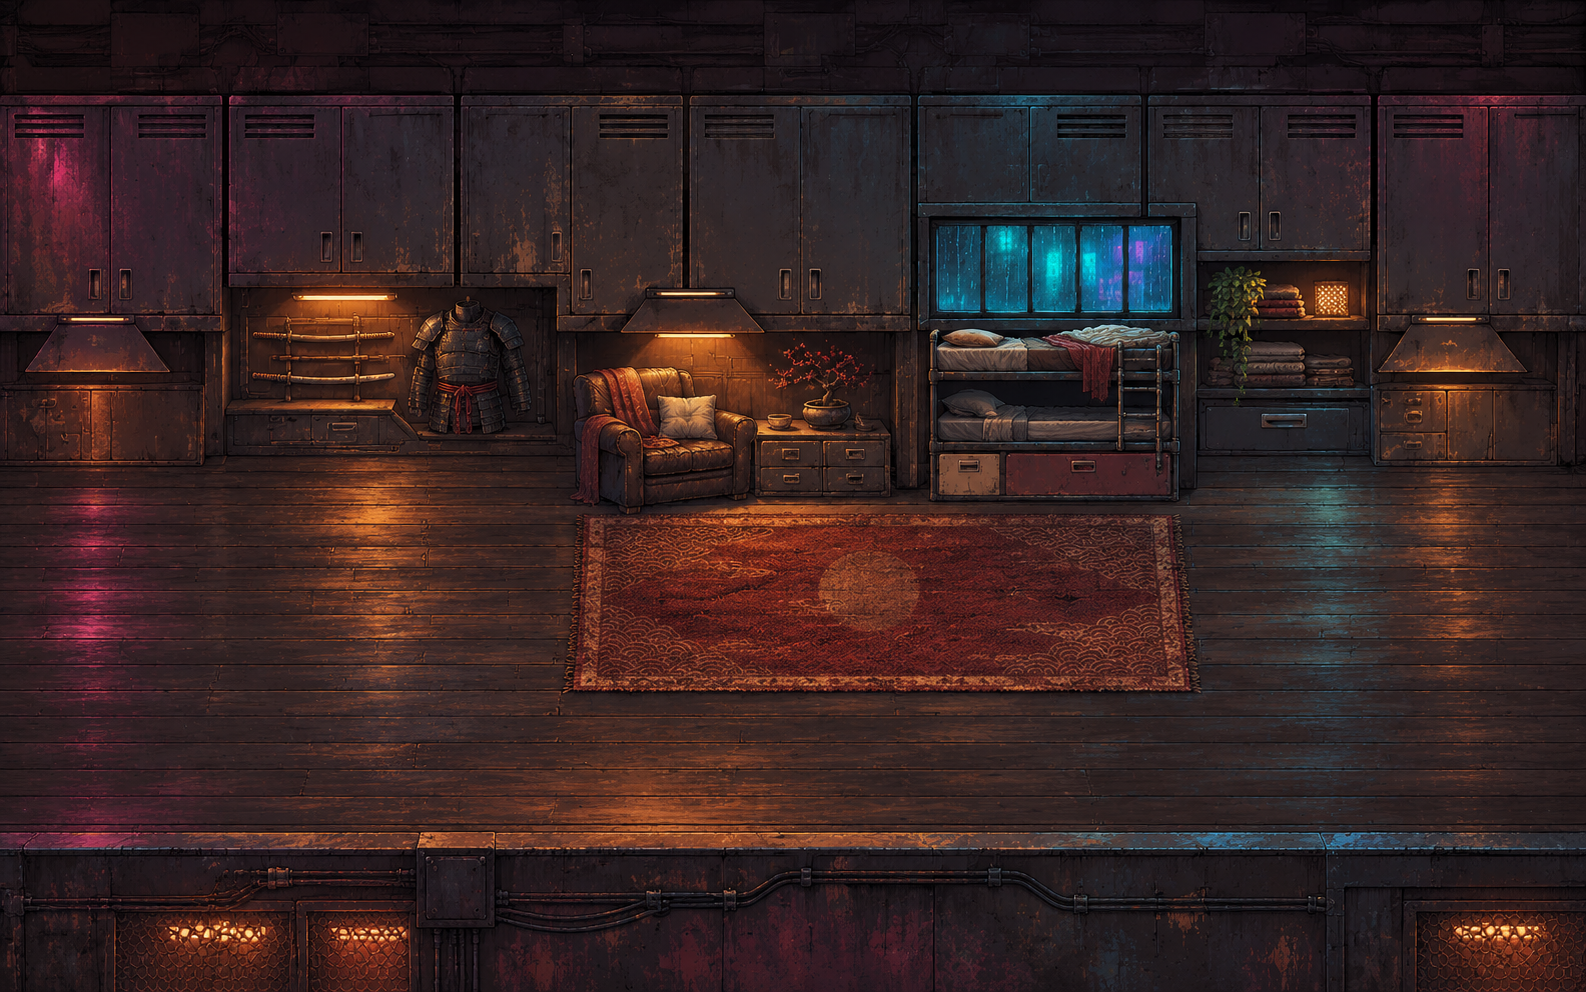
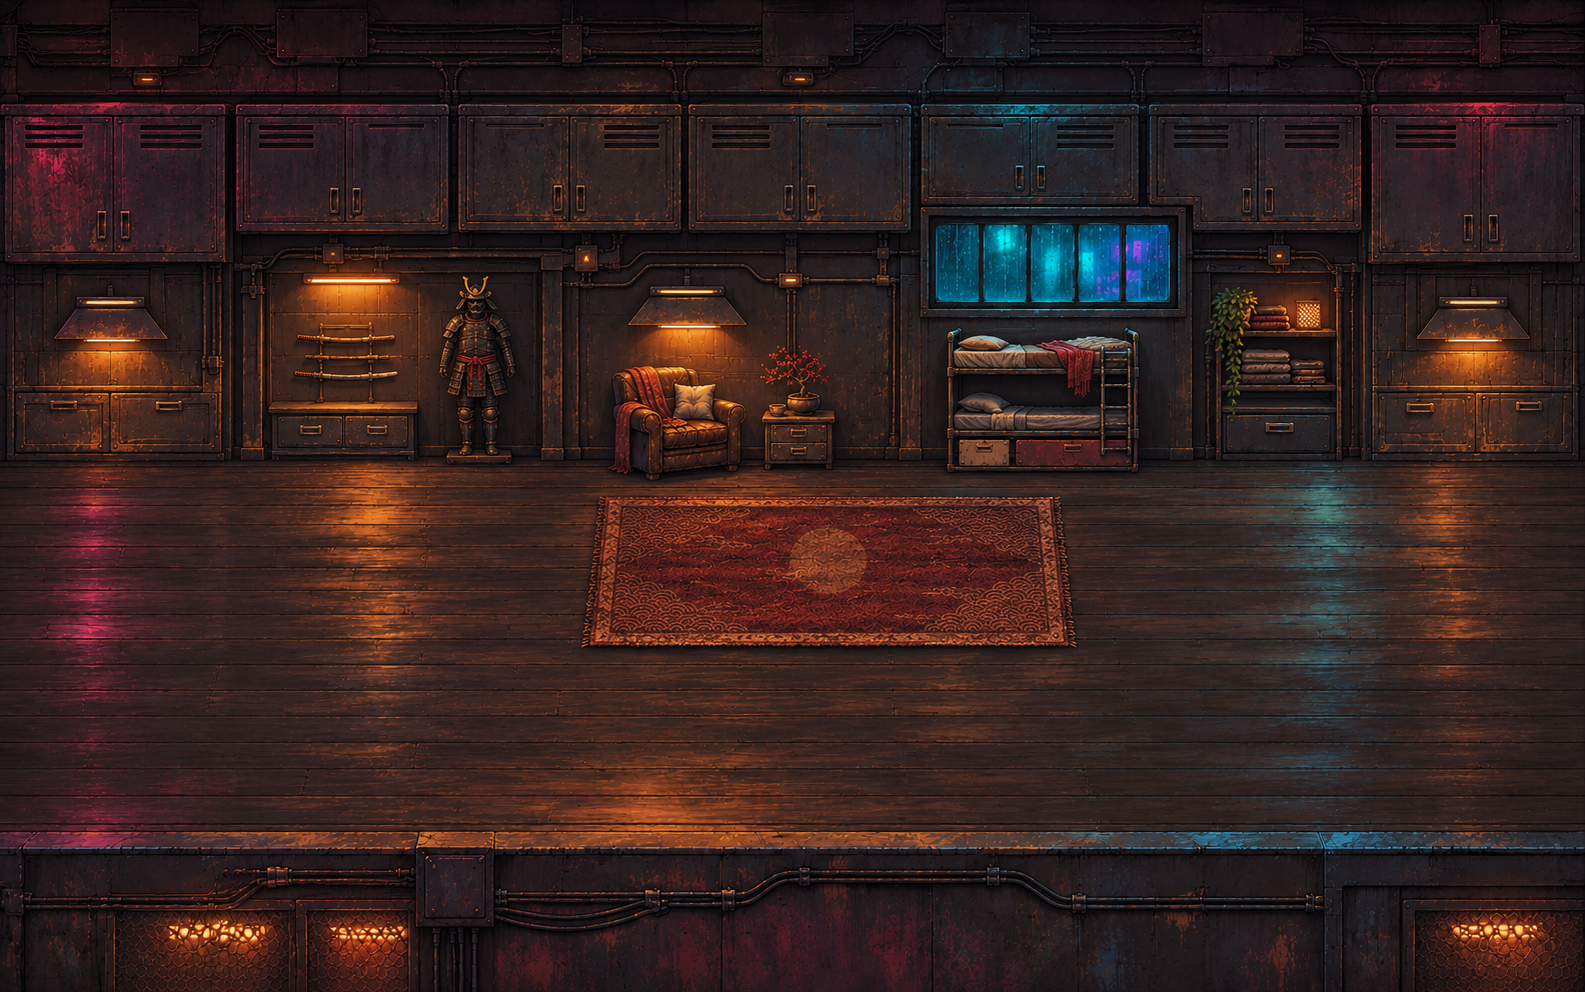
fix: korrigiere Versteckmaßstab und Straßenübergang in Kapitel 1

diff --git a/docs/karten-proportionen.md b/docs/karten-proportionen.md
@@ -1,0 +1,15 @@
+# Versteck und Straßenübergang
+
+![Shadepis Versteck mit den Spielfiguren als Größenvergleich](versteck-proportionen.png)
+
+Das Versteck in Kapitel 5 verwendet einen kompakteren Raummaßstab. Der Sessel, das Bett und die vollständige Samurai-Rüstung orientieren sich an der Höhe der vorhandenen HQ-Figuren. Die überarbeitete Raumgrafik behält Materialstil, Beleuchtung und Ausstattung des bisherigen Verstecks bei. Shadepi und Raven behalten ihre normalen Spritegrößen.
+
+`Painted.CHAMBER_RECT` und `CHAMBER_SCALE` legen den Raummaßstab fest. Bodenbegrenzungen, Möbelkollisionen, Einstiegspunkt, Beleuchtung, Wandkasten und Interaktionspunkt wurden gemeinsam angepasst. Die Raumkamera zeigt den Innenraum ohne freie Außenflächen; beim Übergang in die Erinnerungssequenz wird die normale Kameraskalierung wiederhergestellt. Alte Kapitel-Kontrollpunkte laden weiterhin am passenden Einstieg.
+
+![Durchgehende Bodenkante zwischen Bingo Street und Gasse](strassenuebergang.png)
+
+In Kapitel 1 lagen die Boden- und Vorderkanten der beiden Hintergrundbilder ungefähr zwölf Spielpixel auseinander. Bingo Street wird nun um diesen Betrag versetzt abgetastet. Die Hinderniskollisionen und die Masken, die vorbeilaufende Figuren verdecken, folgen demselben Versatz. `shaders/street_join.gdshader` verbindet beide vorhandenen HQ-Bilder über einen schmalen Überlappungsbereich; die Gassengrafik bleibt unverändert. Das beseitigt den harten Bildschnitt, ohne den Levelverlauf zu verkürzen.
+
+`tools/map_gallery.gd` erzeugt mit einem echten Display drei Aufnahmen entlang des Übergangs sowie einen Größenvergleich im Versteck unter `/tmp/shadepi-map-*.png`. Gameplay-, Story- und Wellentests prüfen zusätzlich den Kapitelablauf, die tatsächlichen Laufwege und alle Gegnerpositionen. Die Storyprüfung kontrolliert die kleineren Möbelkollisionen, freie ehemalige Möbelflächen und den Wechsel zur Erinnerungskamera.
+
+Geprüft mit Godot 4.7.2: 303 Gameplay-, 247 Story- und 237 Wellenprüfungen, insgesamt 787 ohne Fehler. Die Raumansicht und drei Positionen am Straßenübergang wurden mit OpenGL Compatibility unter Xvfb/Mesa gerendert und visuell geprüft.

diff --git a/README.md b/README.md
@@ -18,6 +18,8 @@ Im Spiel gibt es ein Startmenü mit Einzelspieler und Lokal-Koop, eine gemeinsam
 
 **Neue Kampfbewegungen:** Aufladbarer Katana-Schlag mit Energiewelle, Kick und Ravens aufgeladener Pistolenschuss. [Steuerung und animierte Vorschau](docs/kampfbewegungen.md).
 
+**Kartenkorrekturen:** Das Versteck hat passende Möbelproportionen; Bingo Street geht mit durchgehender Bodenkante in die Gasse über. [Vergleich im Spiel](docs/karten-proportionen.md).
+
 Das Startmenü zeigt Shadepi und Raven vor einer Neonstadt mit weißem Drachen. Mausbewegungen verschieben Stadt und Figuren gegeneinander; Ravens Haare und Shadepis Schal bewegen sich im Wind. Mehrschichtiger Regen, Wasserreflexe und Neonlicht ergänzen die Szene. Die Menüknöpfe reagieren auf Maus und Controller-Fokus. Der vorhandene Bildstil-Schalter reduziert bei Bedarf Bewegung, Regen und Filter. [Vorschau und technische Hinweise](docs/live-startmenue.md).
 
 ## Geschichte und Spielumfang
